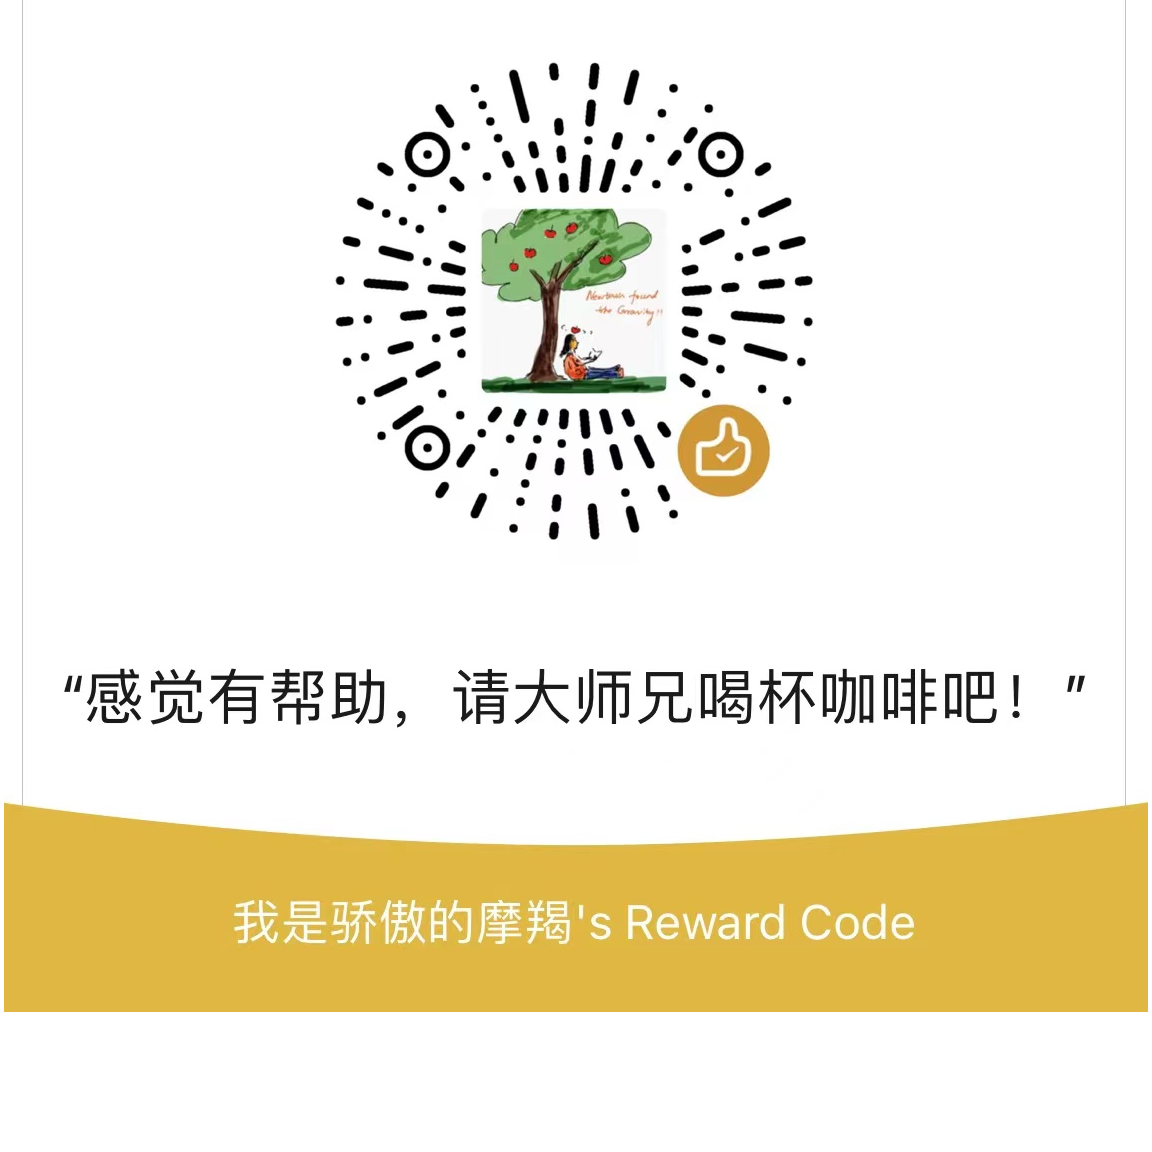
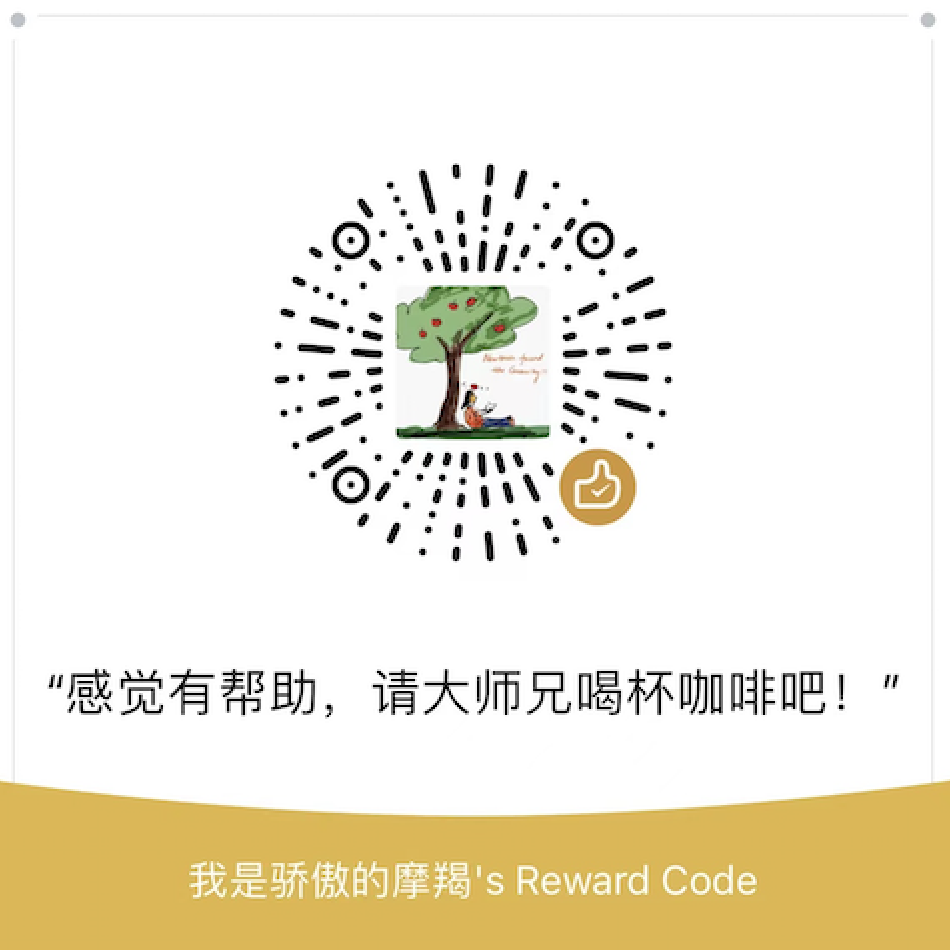
gif

diff --git a/docs/Install/IN03.md b/docs/Install/IN03.md
@@ -130,8 +130,8 @@ echo 'source /home/bigbro/intel/oneapi/setvars.sh' >> ~/.bashrc
 + 安装 `Base toolkit` 的时候，大家可以选择 `Accept & Customize` 取消安装 `Python` 解释器，从而节省时间。
 + 其他没有什么需要注意的。
 
+[<img src="IN03/qrcode.jpeg" width="250"/>](IN03/qrcode.jpeg)
 
+![](IN03/qrcode.jpeg){ width=5cm }
 
-+ <figure markdown>
-    ![](IN03/qrcod.png){ width="300" }
-  </figure>
+<img src="IN03/qrcode.jpeg" style="zoom:40%;" />
